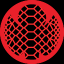
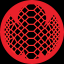
Commit 14: Added a new Functionality in drawing methods in Snake class. Also added updated  snakeBody and snakeBody1 images. Changed the logic in GameScreen class regarding to changes in Snake class. Need to contunue improvement of appropriate drawing the snake

diff --git a/core/src/com/mygdx/game/Snake.java b/core/src/com/mygdx/game/Snake.java
@@ -16,48 +16,66 @@ public class Snake {
         this.headTexture = headTexture;
         this.bodyTexture = bodyTexture;
         bodyParts = new ArrayList<>();
-        bodyParts.add(new Vector2(400, 800)); // Initial position of the snake
-        bodyParts.add(new Vector2(400, 864)); // Initial position of the snake's body part
+        bodyParts.add(new Vector2(400, 400)); // Initial position of the snake
     }
 
-    public void drawSnake(SpriteBatch batch) {
+    public void drawBody(SpriteBatch batch, int direction) {
         for (Vector2 part : bodyParts) {
-            batch.draw(bodyTexture, part.x , part.y );
+            batch.draw(bodyTexture, part.x, part.y);
         }
+    }
+    public void drawHead(SpriteBatch batch) {
+            batch.draw(headTexture, bodyParts.get(0).x + 0, bodyParts.get(0).y -64);
     }
     public void move(int direction, boolean grow) {
         Vector2 headPos = bodyParts.get(0);
-        Vector2 newPos = new Vector2(headPos);
 
         switch(direction){
             case Input.Keys.UP:
-                newPos.y += 1;
+                headPos.y += 1;
                 break;
             case Input.Keys.DOWN:
-                newPos.y -= 1;
+                headPos.y -= 1;
                 break;
             case Input.Keys.LEFT:
-                newPos.x -= 1;
+                headPos.x -= 1;
                 break;
             case Input.Keys.RIGHT:
-                newPos.x += 1;
+                headPos.x += 1;
                 break;
         }
 
-       bodyParts.add(0, newPos);
-
-        if(!grow) {
-            bodyParts.remove(bodyParts.size() - 1);
+        for (int i = bodyParts.size() - 1; i > 0; i--) {
+            bodyParts.set(i, new Vector2(bodyParts.get(i - 1)));
         }
-    }
 
+        bodyParts.set(0, headPos);
+
+    }
     public void grow() {
 
+    }
+
+    public void checkAppleCollision(Vector2 applePosition, Apple apple) {
+        Vector2 headPos = bodyParts.get(0);
+
+        float appleX = applePosition.x;
+        float appleY = applePosition.y;
+        float appleWidth = 64;
+        float appleHeight = 64;
+
+        float headX = headPos.x;
+        float headY = headPos.y;
+
+        // Check if snakeHead is outside the apple
+        if (headX >= appleX && headX <= appleX + appleWidth && headY >= appleY && headY <= appleY + appleHeight) {
+            grow();
+            apple.respawn();
+        }
     }
     public Vector2 getHeadPosition(){
         return bodyParts.get(0);
     }
-
     public void dispose(){
         headTexture.dispose();
         bodyTexture.dispose();

diff --git a/core/src/com/mygdx/game/GameScreen.java b/core/src/com/mygdx/game/GameScreen.java
@@ -19,7 +19,7 @@ public class GameScreen extends ScreenAdapter implements ApplicationListener {
     private Apple apple;
     private Snake snake;
     private int direction;
-    private float speed;
+
 
         public void create() {
             snake = new Snake(new Texture("snakeHead.png"),new Texture("snakeBody.png"));
@@ -36,7 +36,6 @@ public class GameScreen extends ScreenAdapter implements ApplicationListener {
             batch = new SpriteBatch();
 
             direction = Input.Keys.RIGHT;
-            speed = 0.1f;
 
         }
 
@@ -46,21 +45,23 @@ public class GameScreen extends ScreenAdapter implements ApplicationListener {
             batch.setProjectionMatrix(camera.combined);
             handleInput();
             snake.move(direction, false);
+            snake.checkAppleCollision(apple.getPosition(), apple);
             batch.begin();
-            snake.drawSnake(batch);
+            snake.drawHead(batch);
+            snake.drawBody(batch, direction);
             apple.drawApple(batch);
 
             batch.end();
         }
 
         public void handleInput(){
-            if(Gdx.input.isKeyPressed(Input.Keys.UP) && direction != Input.Keys.DOWN)
+            if(Gdx.input.isKeyPressed(Input.Keys.UP) )
                 direction = Input.Keys.UP;
-            else if(Gdx.input.isKeyPressed(Input.Keys.DOWN) && direction != Input.Keys.UP)
+            else if(Gdx.input.isKeyPressed(Input.Keys.DOWN) )
                 direction = Input.Keys.DOWN;
-            else if(Gdx.input.isKeyPressed(Input.Keys.LEFT) && direction != Input.Keys.RIGHT)
+            else if(Gdx.input.isKeyPressed(Input.Keys.LEFT) )
                 direction = Input.Keys.LEFT;
-            else if(Gdx.input.isKeyPressed(Input.Keys.RIGHT) && direction != Input.Keys.LEFT)
+            else if(Gdx.input.isKeyPressed(Input.Keys.RIGHT) )
                 direction = Input.Keys.RIGHT;
 
         }

diff --git a/desktop/src/com/mygdx/game/DesktopLauncher.java b/desktop/src/com/mygdx/game/DesktopLauncher.java
@@ -1,7 +1,5 @@
 package com.mygdx.game;
 
-import com.badlogic.gdx.ApplicationListener;
-import com.badlogic.gdx.Gdx;
 import com.badlogic.gdx.backends.lwjgl3.Lwjgl3Application;
 import com.badlogic.gdx.backends.lwjgl3.Lwjgl3ApplicationConfiguration;
 
@@ -13,7 +11,6 @@ public class DesktopLauncher {
 		config.setForegroundFPS(60);
 		config.useVsync(true);
 
-		new Lwjgl3Application(new WelcomeScreen(), config);
 		new Lwjgl3Application(new GameScreen(), config);
 	}
 }
